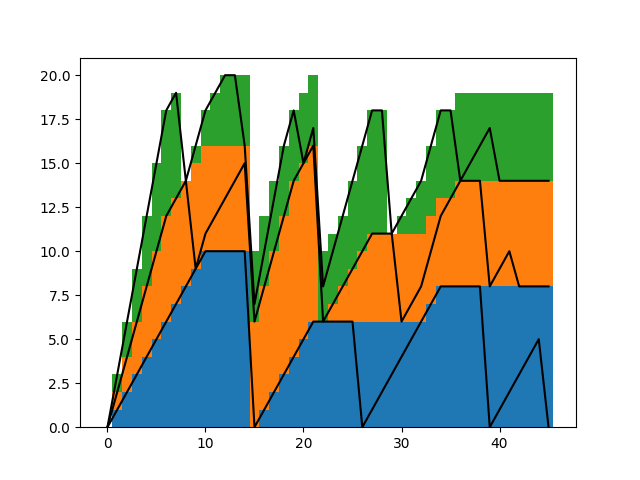
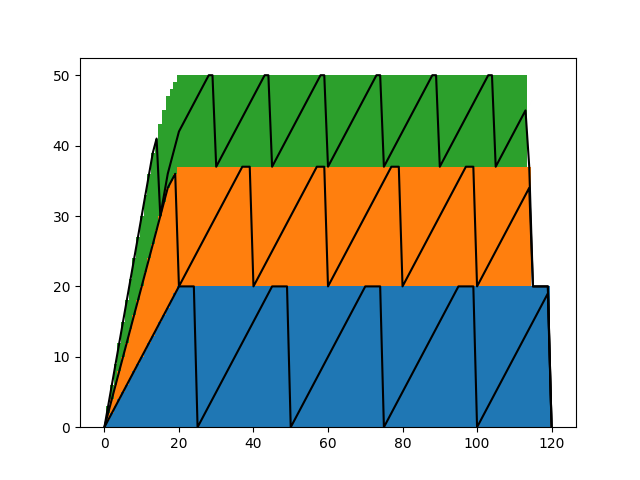
save

diff --git a/src/controller.hpp b/src/controller.hpp
@@ -53,15 +53,14 @@ enum class RuntimeStatus {
 // Once we enter the memory-hungry mode (by using up all physical memory) we stay there.
 // Maybe we should add some way to get back to memory-rich mode?
 struct BalanceControllerNode : ControllerNode {
-  // a positive number. allow deviation of this much in balancing.
-  double tolerance = 0.2;
-  // a number between [0, 1]. only when that proportion of memory is used, go into pressure mode, and restrict allocation
-  double pressure_threshold = 0.9;
+  // a positive number.
+  double tolerance = 0.3;
   RuntimeStatus judge(double current_balance, double runtime_balance) {
-    if (current_balance * (1 + tolerance) < runtime_balance) {
-      return RuntimeStatus::ShouldFree;
-    } else if (runtime_balance * (1 + tolerance) < current_balance) {
+    double portion_memory_used = double(used_memory_) / double(max_memory_);
+    if (portion_memory_used * runtime_balance <= current_balance) {
       return RuntimeStatus::CanAllocate;
+    } else if (current_balance * (1 + tolerance) <= portion_memory_used * runtime_balance) {
+      return RuntimeStatus::ShouldFree;
     } else {
       return RuntimeStatus::Stay;
     }
@@ -75,18 +74,7 @@ struct BalanceControllerNode : ControllerNode {
   bool enough_memory(size_t extra) {
     return used_memory_ + extra <= max_memory_;
   }
-  bool request_balance(const Runtime& r, size_t extra);
-  bool request_impl(const Runtime& r, size_t extra) override {
-    if (used_memory_ < pressure_threshold * max_memory_) {
-      if (enough_memory(extra)) {
-        return true;
-      } else {
-        return request_balance(r, extra);
-      }
-    } else {
-      return request_balance(r, extra);
-    }
-  }
+  bool request_impl(const Runtime& r, size_t extra) override;
   void optimize() override;
   std::string name() override {
     return "BalanceController";

diff --git a/src/main.cpp b/src/main.cpp
@@ -199,9 +199,9 @@ void run_simulated_experiment(const Controller& c) {
   SimulatedExperimentResult ret;
   c->set_max_memory(20);
   std::vector<std::shared_ptr<SimulatedRuntimeNode>> runtimes;
-  runtimes.push_back(std::make_shared<SimulatedRuntimeNode>(/*max_working_memory_=*/0, /*garbage_rate_=*/1, /*gc_time_=*/5, /*work_=*/30));
-  runtimes.push_back(std::make_shared<SimulatedRuntimeNode>(/*max_working_memory_=*/0, /*garbage_rate_=*/1, /*gc_time_=*/3, /*work_=*/30));
-  runtimes.push_back(std::make_shared<SimulatedRuntimeNode>(/*max_working_memory_=*/0, /*garbage_rate_=*/1, /*gc_time_=*/2, /*work_=*/30));
+  runtimes.push_back(std::make_shared<SimulatedRuntimeNode>(/*max_working_memory_=*/0, /*garbage_rate_=*/1, /*gc_time_=*/5, /*work_=*/100));
+  runtimes.push_back(std::make_shared<SimulatedRuntimeNode>(/*max_working_memory_=*/0, /*garbage_rate_=*/1, /*gc_time_=*/3, /*work_=*/100));
+  runtimes.push_back(std::make_shared<SimulatedRuntimeNode>(/*max_working_memory_=*/0, /*garbage_rate_=*/1, /*gc_time_=*/2, /*work_=*/100));
   for (const auto& r: runtimes) {
     c->add_runtime(r);
   }
@@ -221,12 +221,13 @@ void run_simulated_experiment(const Controller& c) {
       }
     }
   }
+  std::cout << "time_taken: " << i << std::endl;
   log_json(ret);
 }
 
 void simulated_experiment() {
-  run_simulated_experiment(std::make_shared<BalanceControllerNode>());
-  //run_simulated_experiment(std::make_shared<FirstComeFirstServeControllerNode>());
+  //run_simulated_experiment(std::make_shared<BalanceControllerNode>());
+  run_simulated_experiment(std::make_shared<FirstComeFirstServeControllerNode>());
   //run_simulated_experiment(std::make_shared<FixedControllerNode>());
 }
 

diff --git a/src/controller.cpp b/src/controller.cpp
@@ -17,6 +17,7 @@ bool ControllerNode::request(const Runtime& r, size_t request) {
 void ControllerNode::remove_runtime(const Runtime& r) {
   assert(runtimes_.count(r) == 1);
   runtimes_.erase(r);
+  free_max_memory(r->max_memory());
   remove_runtime_aux(r);
 }
 
@@ -38,13 +39,12 @@ std::vector<Runtime> ControllerNode::runtimes() {
   return ret;
 }
 
-bool BalanceControllerNode::request_balance(const Runtime& r, size_t extra) {
+bool BalanceControllerNode::request_impl(const Runtime& r, size_t extra) {
   double current_score = score();
   RuntimeStatus status = judge(current_score, r->memory_score());
   if (status == RuntimeStatus::Stay) {
     return false;
   } else if (status == RuntimeStatus::ShouldFree) {
-    std::cout << "shrinking" << std::endl;
     r->shrink_max_memory();
     return false;
   } else {
@@ -63,12 +63,10 @@ bool FirstComeFirstServeControllerNode::request_impl(const Runtime& r, size_t ex
 }
 
 void BalanceControllerNode::optimize() {
-  std::cout << "optimizing" << std::endl;
   double current_score = score();
   for (const Runtime& runtime: runtimes()) {
     RuntimeStatus status = judge(current_score, runtime->memory_score());
     if (status == RuntimeStatus::ShouldFree) {
-      std::cout << "memory shrinked" << std::endl;
       runtime->shrink_max_memory();
     }
   }

diff --git a/src/runtime.hpp b/src/runtime.hpp
@@ -17,6 +17,7 @@ protected:
   bool done_ = false;
 public:
   void done();
+  virtual void done_aux() { }
   bool is_done() {
     return done_;
   }
@@ -48,6 +49,10 @@ struct SimulatedRuntimeNode : RuntimeNode {
   size_t max_memory_ = 0;
   size_t max_memory() override {
     return max_memory_;
+  }
+  void done_aux() {
+    current_memory_ = 0;
+    max_memory_ = 0;
   }
   size_t garbage_rate_;
   double garbage_rate() override {

diff --git a/src/runtime.cpp b/src/runtime.cpp
@@ -15,6 +15,7 @@ void RuntimeNode::done() {
     if (controller) {
       controller->remove_runtime(shared_from_this());
     }
+    done_aux();
   }
 }
 
